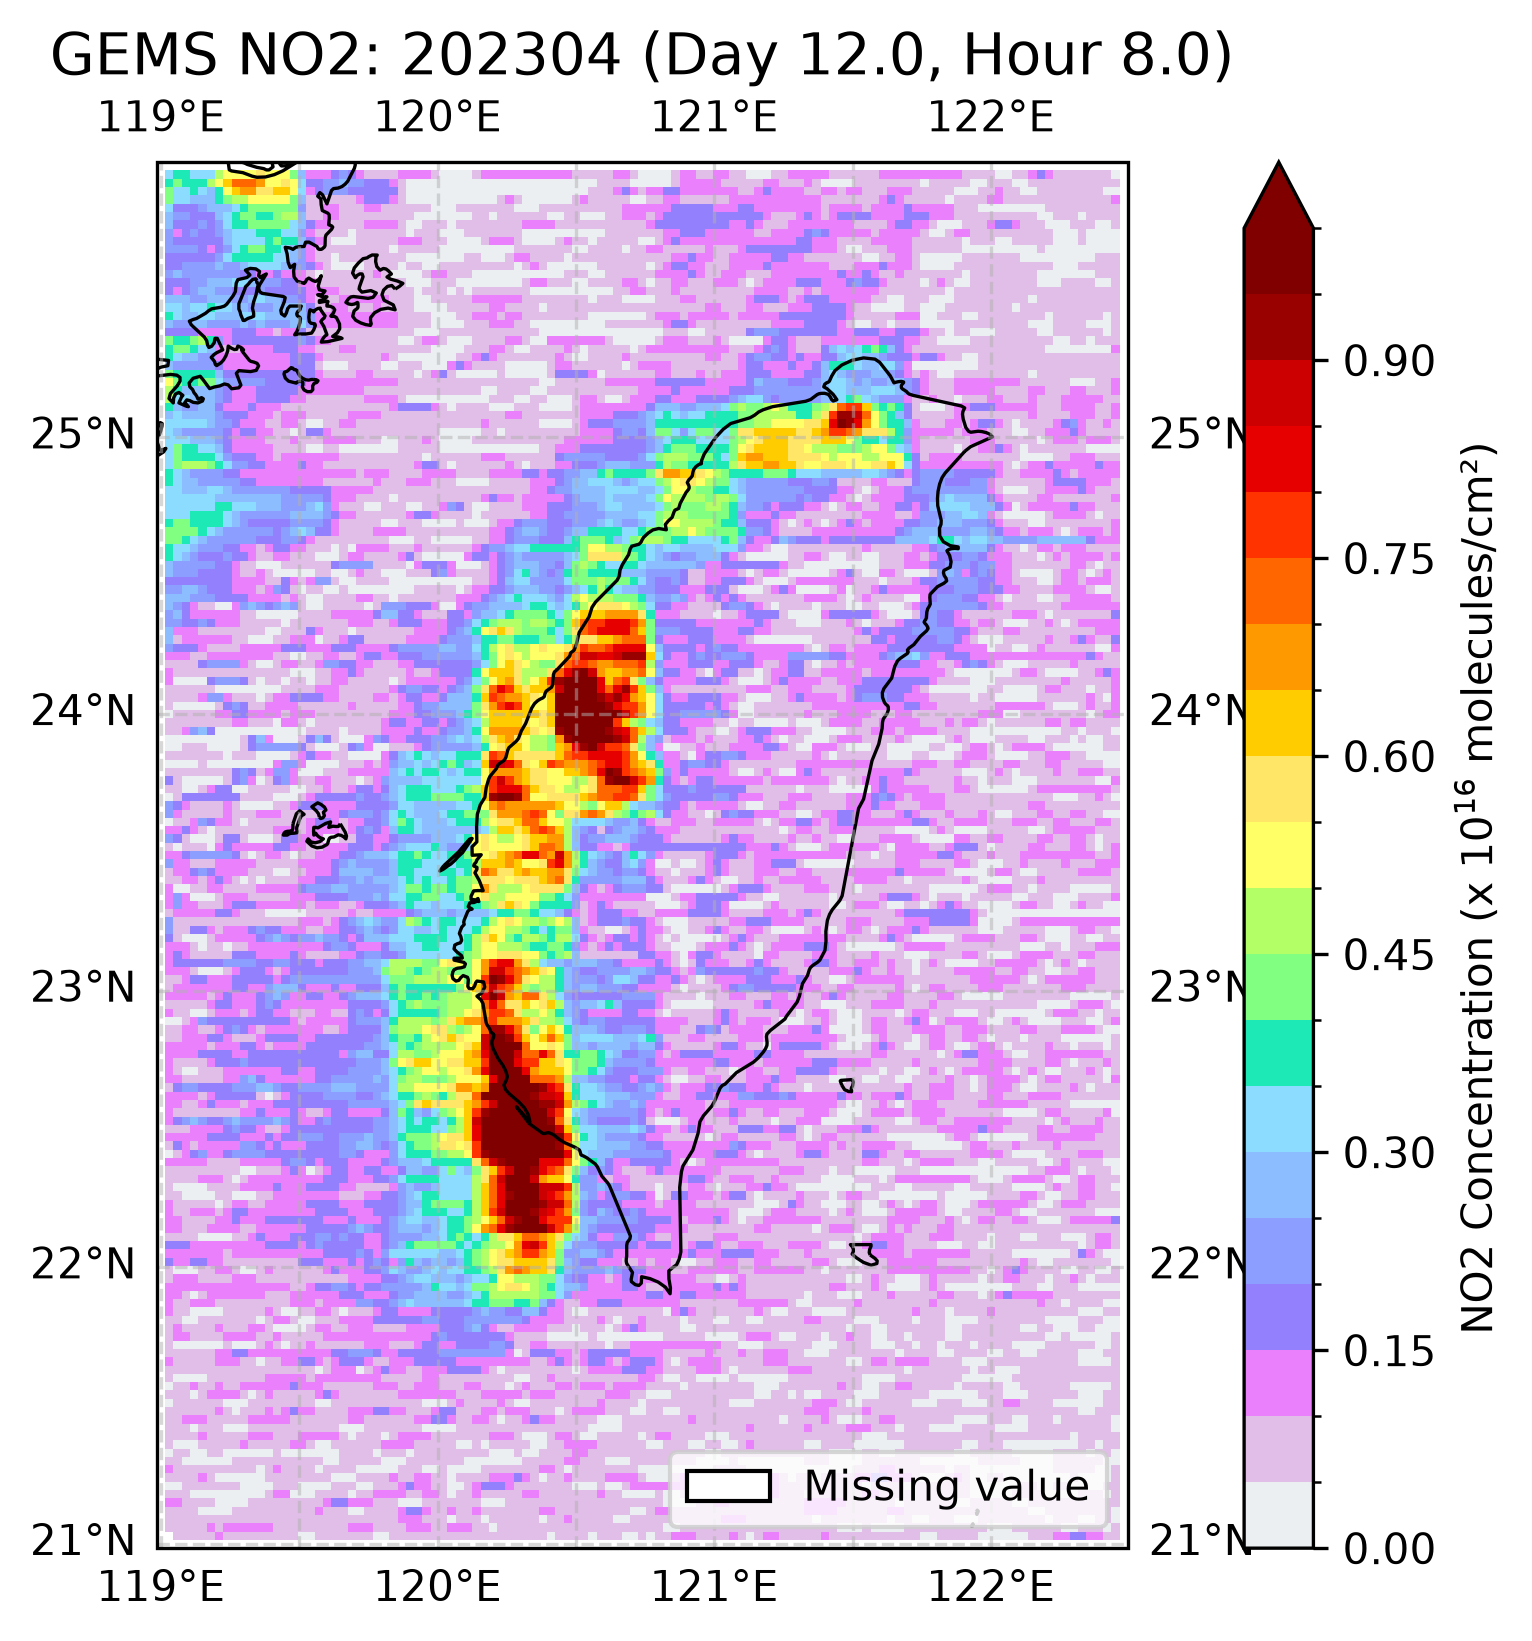
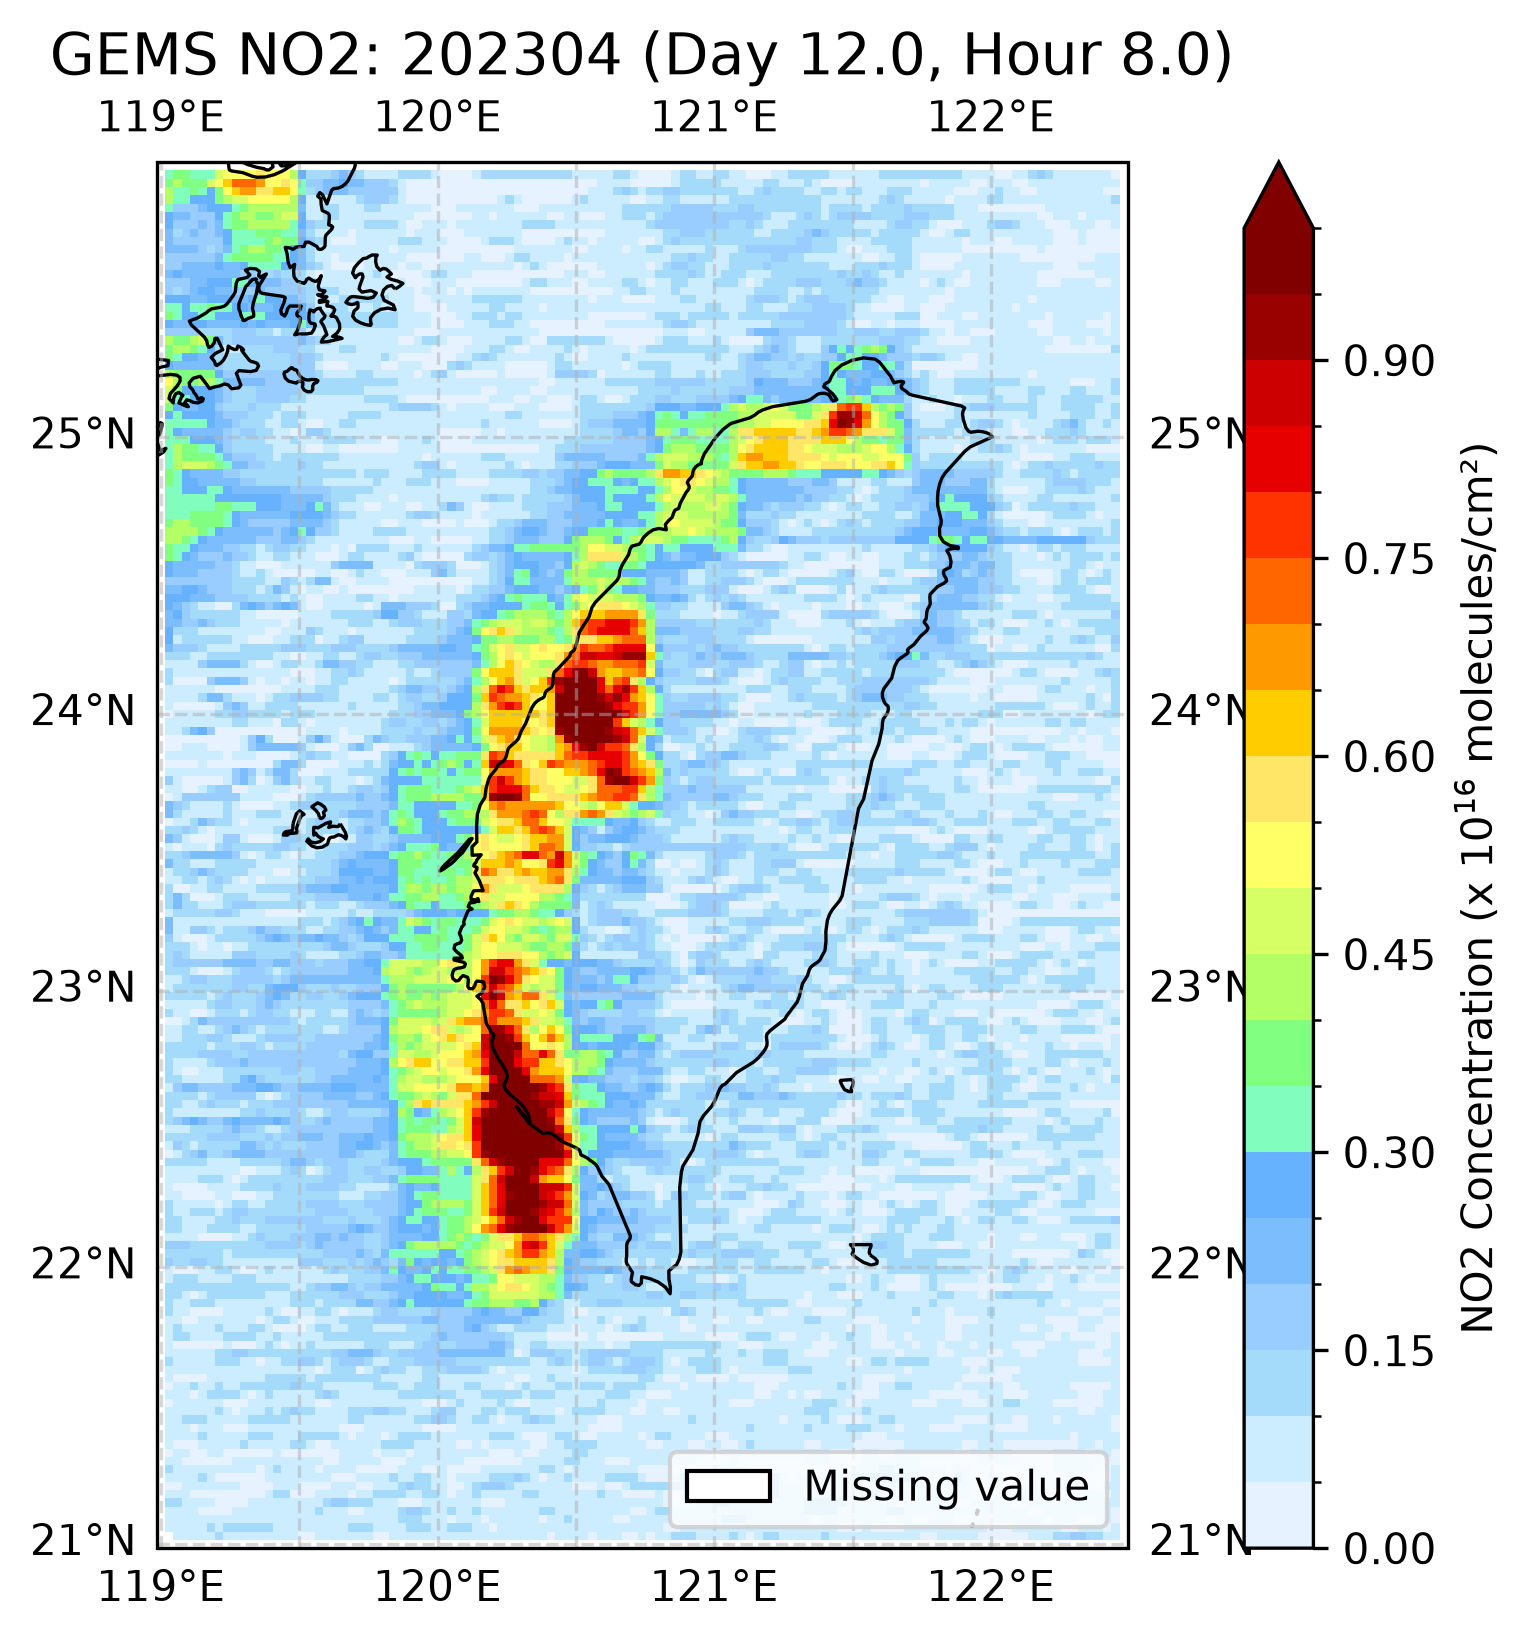
update color bar, no transition color between blue and green

diff --git a/scripts/NO2.py b/scripts/NO2.py
@@ -7,6 +7,7 @@ import matplotlib.pyplot as plt
 import matplotlib.colors as mcolors
 from matplotlib.patches import Patch
 import cartopy.crs as ccrs
+from color_palette import boundaries, hex_colors
 
 # 1. 定義路徑並確保輸出資料夾存在
 input_dir = r"../data/raw/nc_datas/data_2023/GEMS_NO2"
@@ -29,17 +30,6 @@ if not nc_files:
     raise SystemExit(f"找不到任何 .nc 檔案於路徑: {input_dir}")
 print(f"找到 {len(nc_files)} 個 .nc 檔案，開始進行批次處理...")
 
-# 3. 色階設定 (0 ~ 1，間距 0.05，共 20 階；數值已除以 10^exponent)
-boundaries = [0, 0.05, 0.1, 0.15, 0.2, 0.25, 0.3, 0.35, 0.4,
-              0.45, 0.5, 0.55, 0.6, 0.65, 0.7, 0.75, 0.8,
-              0.85, 0.9, 0.95, 1.0]
-hex_colors = [
-    '#ECEFF1', '#E1BEE7', '#EA80FC', '#9380FC',  # 0.00 ~ 0.20
-    '#8C9EFF', '#8CBEFF', '#8CDCFF', '#1DE9B6',  # 0.20 ~ 0.40
-    '#80ff80', '#b3ff66', '#ffff66', '#ffe666',  # 0.40 ~ 0.60
-    '#ffcc00', '#ff9900', '#ff6600', '#ff3300',  # 0.60 ~ 0.80
-    '#e60000', '#cc0000', '#990000', '#800000'   # 0.80 ~ 1.00
-]
 assert len(hex_colors) == len(boundaries) - 1, "顏色數必須等於區間數"
 
 cmap = mcolors.ListedColormap(hex_colors)

diff --git a/scripts/explore_no2_coverage.py b/scripts/explore_no2_coverage.py
@@ -4,6 +4,7 @@ import pandas as pd
 import xarray as xr
 import matplotlib.pyplot as plt
 import matplotlib.colors as mcolors
+from color_palette import boundaries, hex_colors
 
 # ===== 路徑設定 =====
 input_dir = r"../data/raw/nc_datas/data_2023/GEMS_NO2"
@@ -159,14 +160,9 @@ summary['has_data'] = summary['valid_pixels_total'] > 0
 summary.to_csv(os.path.join(output_dir, f'explore_{tag}_summary.csv'), index=False)
 
 # ===== 9. 涵蓋率熱圖：20 階離散色階 (0 ~ 100%，每階 5%)，每格標示百分比 =====
-cov_bounds = np.arange(0, 100.01, 5)          # 0, 5, ..., 100：21 個邊界、20 個區間
-cov_colors = [
-    '#ECEFF1', '#E1BEE7', '#EA80FC', '#9380FC',  # 0 ~ 20%
-    '#8C9EFF', '#8CBEFF', '#8CDCFF', '#1DE9B6',  # 20 ~ 40%
-    '#80ff80', '#b3ff66', '#ffff66', '#ffe666',  # 40 ~ 60%
-    '#ffcc00', '#ff9900', '#ff6600', '#ff3300',  # 60 ~ 80%
-    '#e60000', '#cc0000', '#990000', '#800000'   # 80 ~ 100%
-]
+cov_bounds = boundaries 
+cov_colors = hex_colors
+
 assert len(cov_colors) == len(cov_bounds) - 1, "顏色數必須等於區間數"
 cov_cmap = mcolors.ListedColormap(cov_colors)
 cov_norm = mcolors.BoundaryNorm(cov_bounds, cov_cmap.N)

diff --git a/scripts/plot-NO2.py b/scripts/plot-NO2.py
@@ -7,6 +7,7 @@ import matplotlib.pyplot as plt
 import matplotlib.colors as mcolors
 from matplotlib.patches import Patch
 import cartopy.crs as ccrs
+from color_palette import boundaries, hex_colors
 
 # ===== 路徑與選項 =====
 input_dir = r"../data/raw/nc_datas/data_2023/GEMS_NO2"
@@ -76,17 +77,7 @@ for name, da, _, _ in maps:
           f"min {float(da.min()):.3f}, median {float(da.median()):.3f}, max {float(da.max()):.3f} "
           f"(x1e{exponent})")
 
-# ===== 色階 (0 ~ 1，間距 0.05，共 20 階；數值已除以 10^exponent) =====
-boundaries = [0, 0.05, 0.1, 0.15, 0.2, 0.25, 0.3, 0.35, 0.4,
-              0.45, 0.5, 0.55, 0.6, 0.65, 0.7, 0.75, 0.8,
-              0.85, 0.9, 0.95, 1.0]
-hex_colors = [
-    '#ECEFF1', '#E1BEE7', '#EA80FC', '#9380FC',  # 0.00 ~ 0.20
-    '#8C9EFF', '#8CBEFF', '#8CDCFF', '#1DE9B6',  # 0.20 ~ 0.40
-    '#80ff80', '#b3ff66', '#ffff66', '#ffe666',  # 0.40 ~ 0.60
-    '#ffcc00', '#ff9900', '#ff6600', '#ff3300',  # 0.60 ~ 0.80
-    '#e60000', '#cc0000', '#990000', '#800000'   # 0.80 ~ 1.00
-]
+
 assert len(hex_colors) == len(boundaries) - 1, "顏色數必須等於區間數"
 
 cmap = mcolors.ListedColormap(hex_colors)

diff --git a/scripts/color_palette.py b/scripts/color_palette.py
@@ -1,0 +1,12 @@
+# ===== 色階 (0 ~ 1，間距 0.05，共 20 階；數值已除以 10^exponent) =====
+boundaries = [0, 0.05, 0.1, 0.15, 0.2, 0.25, 0.3, 0.35, 0.4,
+              0.45, 0.5, 0.55, 0.6, 0.65, 0.7, 0.75, 0.8,
+              0.85, 0.9, 0.95, 1.0]
+
+hex_colors = [
+        '#e6f2ff', "#ccecff", "#a5dbfa", '#99ccff', "#7cbdfd", 
+        '#66b2ff', "#81fdbd", '#80ff80', 
+        '#b3ff66', "#d6ff66", '#ffff66', '#ffe666',
+        '#ffcc00', '#ff9900', '#ff6600', '#ff3300',
+        '#e60000', '#cc0000', '#990000', '#800000'
+    ]
